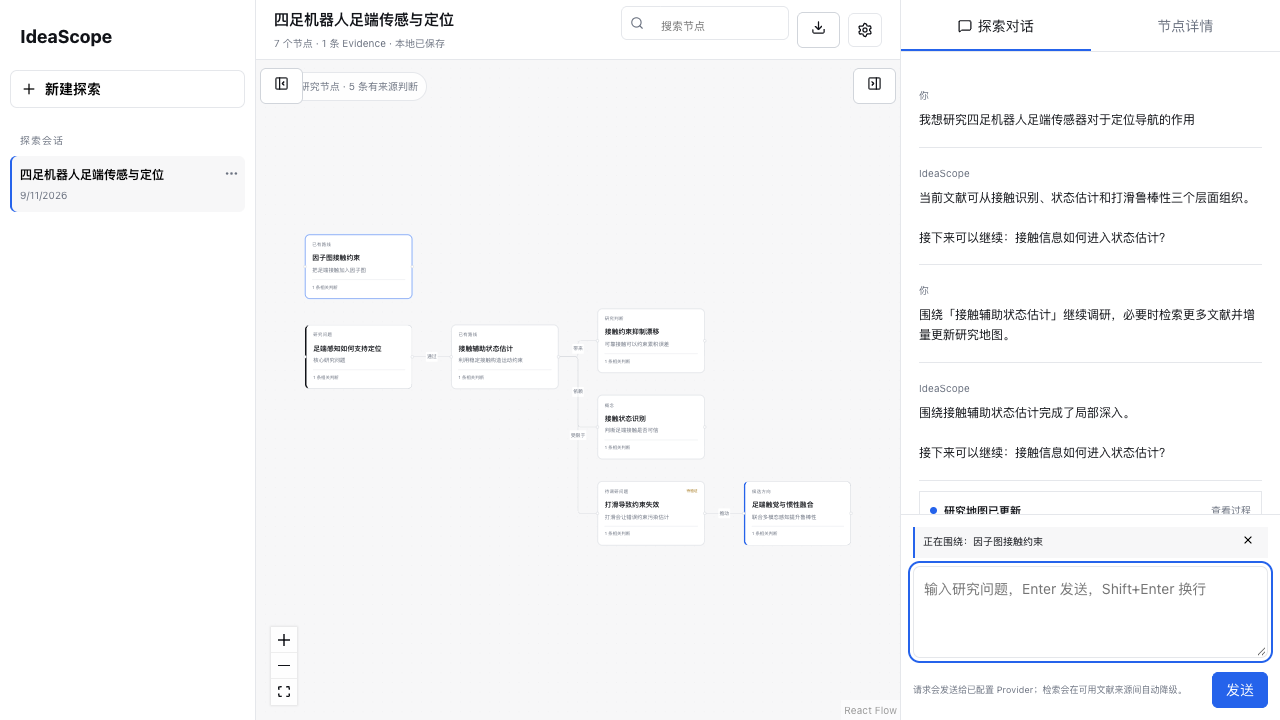
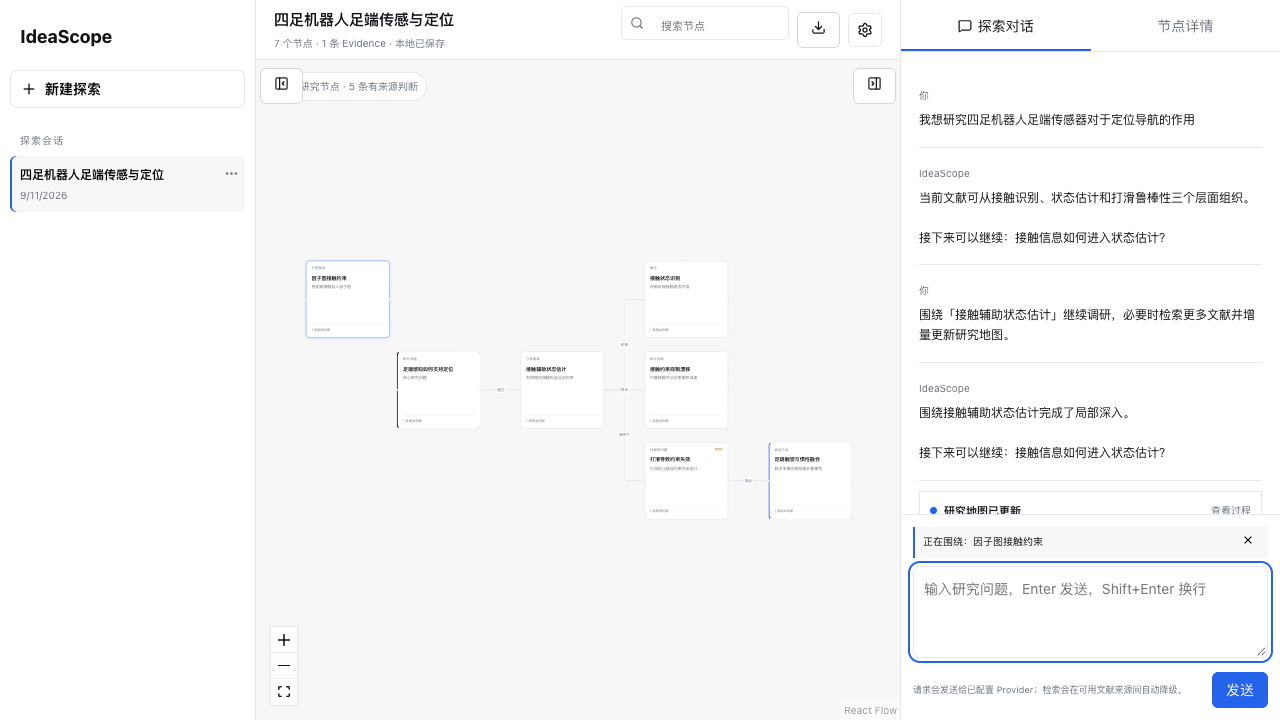
fix: prevent graph overlap and repair progress layout

diff --git a/src/features/graph/layout.ts b/src/features/graph/layout.ts
@@ -1,8 +1,48 @@
-import ELK from 'elkjs/lib/elk.bundled.js';
-import type { GraphEdge, GraphNode } from '../../../contracts/domain';
+import ELK from "elkjs/lib/elk.bundled.js";
+import type { GraphEdge, GraphNode } from "../../../contracts/domain";
 
+export const RESEARCH_NODE_SIZE = { width: 232, height: 214 } as const;
+const NODE_GAP = 38;
 const elk = new ELK();
+
 export async function layoutGraph(nodes: GraphNode[], edges: GraphEdge[]) {
-  const graph = await elk.layout({ id: 'root', layoutOptions: { 'elk.algorithm': 'layered', 'elk.direction': 'RIGHT', 'elk.spacing.nodeNode': '45', 'elk.layered.spacing.nodeNodeBetweenLayers': '80' }, children: nodes.map(node => ({ id: node.id, width: 220, height: 132 })), edges: edges.map(edge => ({ id: edge.id, sources: [edge.source], targets: [edge.target] })) });
-  return new Map(graph.children?.map(node => [node.id, { x: node.x ?? 0, y: node.y ?? 0 }]) ?? []);
+  const graph = await elk.layout({
+    id: "root",
+    layoutOptions: {
+      "elk.algorithm": "layered",
+      "elk.direction": "RIGHT",
+      "elk.edgeRouting": "ORTHOGONAL",
+      "elk.spacing.nodeNode": "38",
+      "elk.spacing.edgeNode": "26",
+      "elk.spacing.edgeEdge": "14",
+      "elk.layered.spacing.nodeNodeBetweenLayers": "112",
+      "elk.layered.nodePlacement.strategy": "NETWORK_SIMPLEX",
+      "elk.layered.crossingMinimization.strategy": "LAYER_SWEEP",
+      "elk.layered.considerModelOrder.strategy": "NODES_AND_EDGES",
+    },
+    children: nodes.map((node) => ({ id: node.id, ...RESEARCH_NODE_SIZE })),
+    edges: edges.map((edge) => ({ id: edge.id, sources: [edge.source], targets: [edge.target] })),
+  });
+  return resolveCollisions(new Map(graph.children?.map((node) => [node.id, { x: node.x ?? 0, y: node.y ?? 0 }]) ?? []));
+}
+
+function resolveCollisions(positions: Map<string, { x: number; y: number }>) {
+  const placed: Array<{ id: string; x: number; y: number }> = [];
+  const ordered = [...positions].map(([id, point]) => ({ id, ...point })).sort((a, b) => a.x - b.x || a.y - b.y);
+  for (const current of ordered) {
+    let moved = true;
+    while (moved) {
+      moved = false;
+      for (const previous of placed) {
+        const horizontalOverlap = current.x < previous.x + RESEARCH_NODE_SIZE.width + NODE_GAP && current.x + RESEARCH_NODE_SIZE.width + NODE_GAP > previous.x;
+        const verticalOverlap = current.y < previous.y + RESEARCH_NODE_SIZE.height + NODE_GAP && current.y + RESEARCH_NODE_SIZE.height + NODE_GAP > previous.y;
+        if (horizontalOverlap && verticalOverlap) {
+          current.y = previous.y + RESEARCH_NODE_SIZE.height + NODE_GAP;
+          moved = true;
+        }
+      }
+    }
+    placed.push(current);
+  }
+  return new Map(placed.map(({ id, x, y }) => [id, { x, y }]));
 }

diff --git a/src/features/graph/ResearchMap.module.css b/src/features/graph/ResearchMap.module.css
@@ -1,1 +1,1 @@
-.map{height:100%;position:relative}.notice{position:absolute;z-index:4;top:12px;left:16px;padding:5px 8px;border:1px solid var(--line);border-radius:99px;background:#ffffffeb;color:var(--muted);font-size:10px}.node{width:220px;min-height:132px;padding:13px 14px;border:1px solid var(--line-strong);border-radius:var(--radius-md);background:var(--surface);text-align:left;box-shadow:none}.node>div{display:flex;justify-content:space-between;color:var(--muted);font-size:9px;letter-spacing:.08em}.node small{color:var(--warning);letter-spacing:0}.node h3{margin:10px 0 6px;font-size:14px;line-height:1.35}.node p{margin:0;color:var(--muted);font-size:11px;line-height:1.55}.node footer{margin-top:11px;padding-top:8px;border-top:1px solid var(--line);color:var(--muted);font-size:9px}.question{border-left:3px solid var(--ink)}.direction{border-left:3px solid var(--accent)}.selected{border-color:var(--accent);box-shadow:0 0 0 2px var(--accent-soft)}.node :global(.react-flow__handle){width:6px;height:6px;border:1px solid var(--line-strong);background:#fff}
+.map{height:100%;position:relative}.notice{position:absolute;z-index:4;top:12px;left:16px;padding:5px 8px;border:1px solid var(--line);border-radius:99px;background:#ffffffeb;color:var(--muted);font-size:10px}.node{box-sizing:border-box;width:232px;height:214px;padding:13px 14px;border:1px solid var(--line-strong);border-radius:var(--radius-md);background:var(--surface);text-align:left;box-shadow:none;display:flex;flex-direction:column;overflow:hidden}.node>div{display:flex;justify-content:space-between;color:var(--muted);font-size:9px;letter-spacing:.08em;flex:none}.node small{color:var(--warning);letter-spacing:0}.node h3{margin:10px 0 6px;font-size:14px;line-height:1.35;display:-webkit-box;-webkit-line-clamp:2;-webkit-box-orient:vertical;overflow:hidden;flex:none}.node p{margin:0;color:var(--muted);font-size:11px;line-height:1.55;display:-webkit-box;-webkit-line-clamp:6;-webkit-box-orient:vertical;overflow:hidden}.node footer{margin-top:auto;padding-top:8px;border-top:1px solid var(--line);color:var(--muted);font-size:9px;flex:none}.question{border-left:3px solid var(--ink)}.direction{border-left:3px solid var(--accent)}.selected{border-color:var(--accent);box-shadow:0 2px 10px rgba(37,99,235,.12)}.node :global(.react-flow__handle){width:7px;height:7px;border:1px solid var(--line-strong);background:#fff}.map :global(.react-flow__edge-textbg){fill:rgba(255,255,255,.92)}.map :global(.react-flow__edge-text){font-size:10px;paint-order:stroke;stroke:#fff;stroke-width:3px}.map :global(.react-flow__edge-path){stroke-linecap:round;stroke-linejoin:round}

diff --git a/tests/unit/graph-layout.test.ts b/tests/unit/graph-layout.test.ts
@@ -1,5 +1,5 @@
 import { describe, expect, it } from 'vitest';
-import { layoutGraph } from '../../src/features/graph/layout';
+import { layoutGraph, RESEARCH_NODE_SIZE } from '../../src/features/graph/layout';
 import { loadDemoWorkspace } from '../../src/infrastructure/demo/workspace-demo';
 
 describe('demo graph adapter and ELK layout', () => {
@@ -19,6 +19,33 @@ describe('demo graph adapter and ELK layout', () => {
     for (const position of positions.values()) {
       expect(Number.isFinite(position.x)).toBe(true);
       expect(Number.isFinite(position.y)).toBe(true);
+    }
+  });
+
+  it('reserves the rendered card size so node rectangles never overlap', async () => {
+    const branch = loadDemoWorkspace().workspace.branches[0];
+    if (!branch) throw new Error('Fixture has no branch');
+    const positions = await layoutGraph(branch.graph.nodes, branch.graph.edges);
+    const entries = [...positions.entries()];
+    for (let left = 0; left < entries.length; left += 1) {
+      for (let right = left + 1; right < entries.length; right += 1) {
+        const a = entries[left]![1];
+        const b = entries[right]![1];
+        const separated = a.x + RESEARCH_NODE_SIZE.width <= b.x || b.x + RESEARCH_NODE_SIZE.width <= a.x || a.y + RESEARCH_NODE_SIZE.height <= b.y || b.y + RESEARCH_NODE_SIZE.height <= a.y;
+        expect(separated).toBe(true);
+      }
+    }
+  });
+
+  it('packs disconnected nodes without collisions', async () => {
+    const branch = loadDemoWorkspace().workspace.branches[0];
+    if (!branch) throw new Error('Fixture has no branch');
+    const nodes = Array.from({ length: 20 }, (_, index) => ({ ...branch.graph.nodes[0]!, id: `isolated-${index}` }));
+    const positions = await layoutGraph(nodes, []);
+    const entries = [...positions.values()];
+    for (let left = 0; left < entries.length; left += 1) for (let right = left + 1; right < entries.length; right += 1) {
+      const a = entries[left]!; const b = entries[right]!;
+      expect(a.x + RESEARCH_NODE_SIZE.width <= b.x || b.x + RESEARCH_NODE_SIZE.width <= a.x || a.y + RESEARCH_NODE_SIZE.height <= b.y || b.y + RESEARCH_NODE_SIZE.height <= a.y).toBe(true);
     }
   });
 });

diff --git a/src/pages/WorkspaceOverrides.css b/src/pages/WorkspaceOverrides.css
@@ -39,6 +39,14 @@ details[role="status"] li {
   gap: 2px;
   color: var(--muted);
 }
+details[role="status"] li > span {
+  width: auto;
+  height: auto;
+  border-radius: 0;
+  background: transparent;
+  overflow-wrap: anywhere;
+  line-height: 1.45;
+}
 details[role="status"] li[data-tone="warning"] {
   color: #92400e;
 }

diff --git a/docs/PROGRESS.md b/docs/PROGRESS.md
@@ -43,6 +43,8 @@
 
 限制：sessionStorage 并非操作系统安全钥匙串，同源脚本若被攻破仍可能读取；这是在纯前端静态部署与刷新可用性之间的明确折中。Semantic Scholar 已接入并有契约测试，真实本轮因 Crossref 已取得足量资料而未继续调用。当前“节点式对话”实现为节点焦点化上下文，消息仍按 Branch 保存为时间序列，尚未改成每节点独立消息树。
 
+视觉修复：根据真实 9 节点截图修正 Research Canvas。ELK 原先按 220×132 估算，但内容卡片高度远大于 132px，导致相邻层和同层节点遮挡；现统一为 232×214 的可预测节点尺寸，标题/摘要受控截断，并增加正交路由、层间距、边到节点间距与最终碰撞消解。右侧研究过程的步骤文字不再继承 7px 状态点尺寸，展开后保持正常横排和换行。新增真实卡片矩形与 20 个孤立节点无重叠测试；Playwright 截图确认 6 节点图无重叠，步骤记录横排可读。
+
 下一阶段入口：停止在 v0.6.5，等待真实使用反馈；不进入 v0.7.0。
 
 ## v0.6.4 阶段记录
